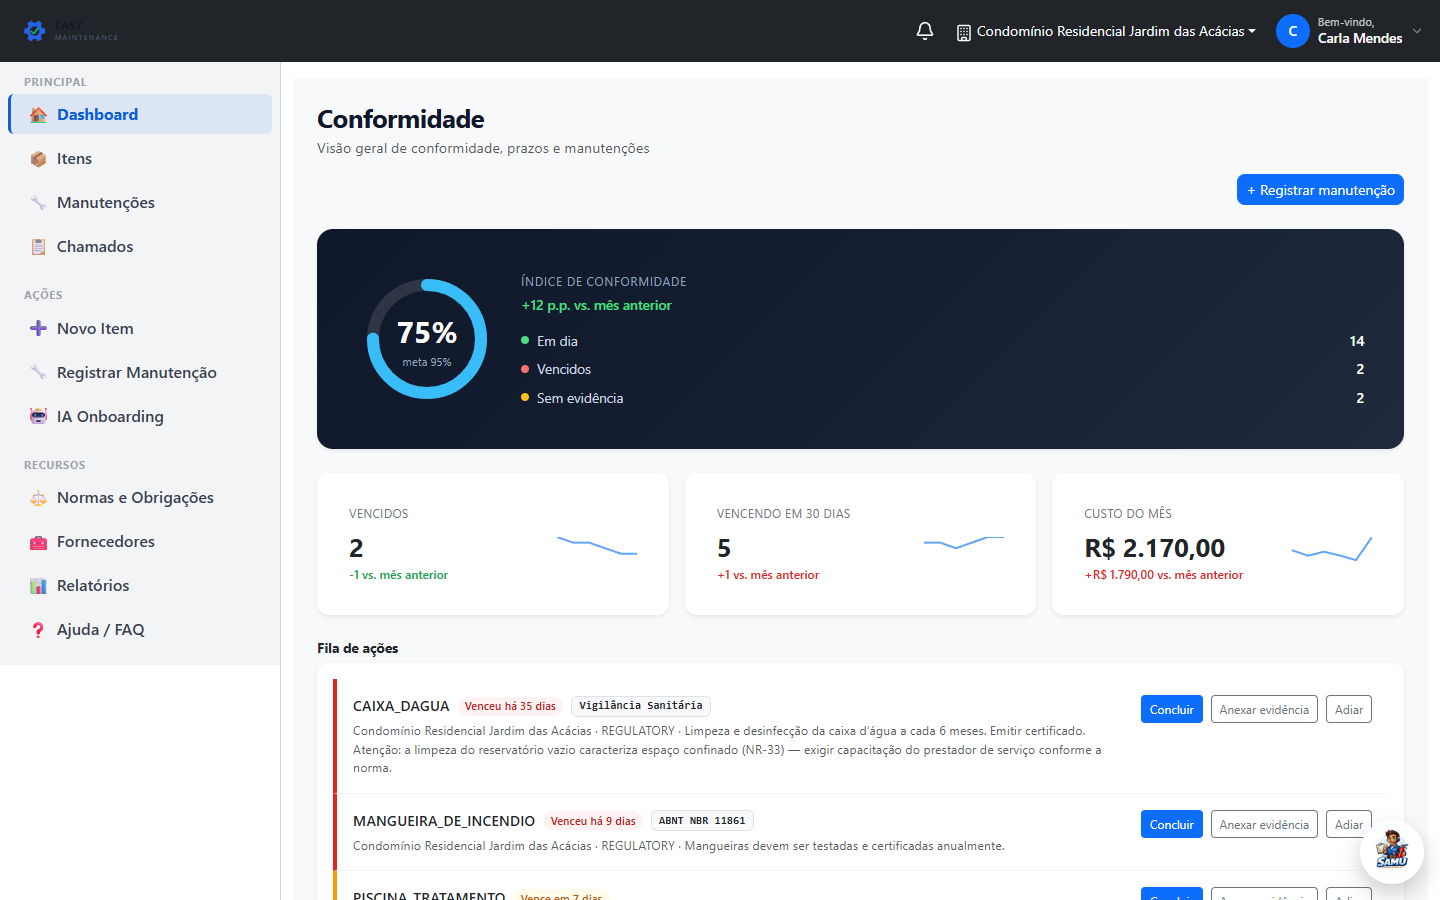
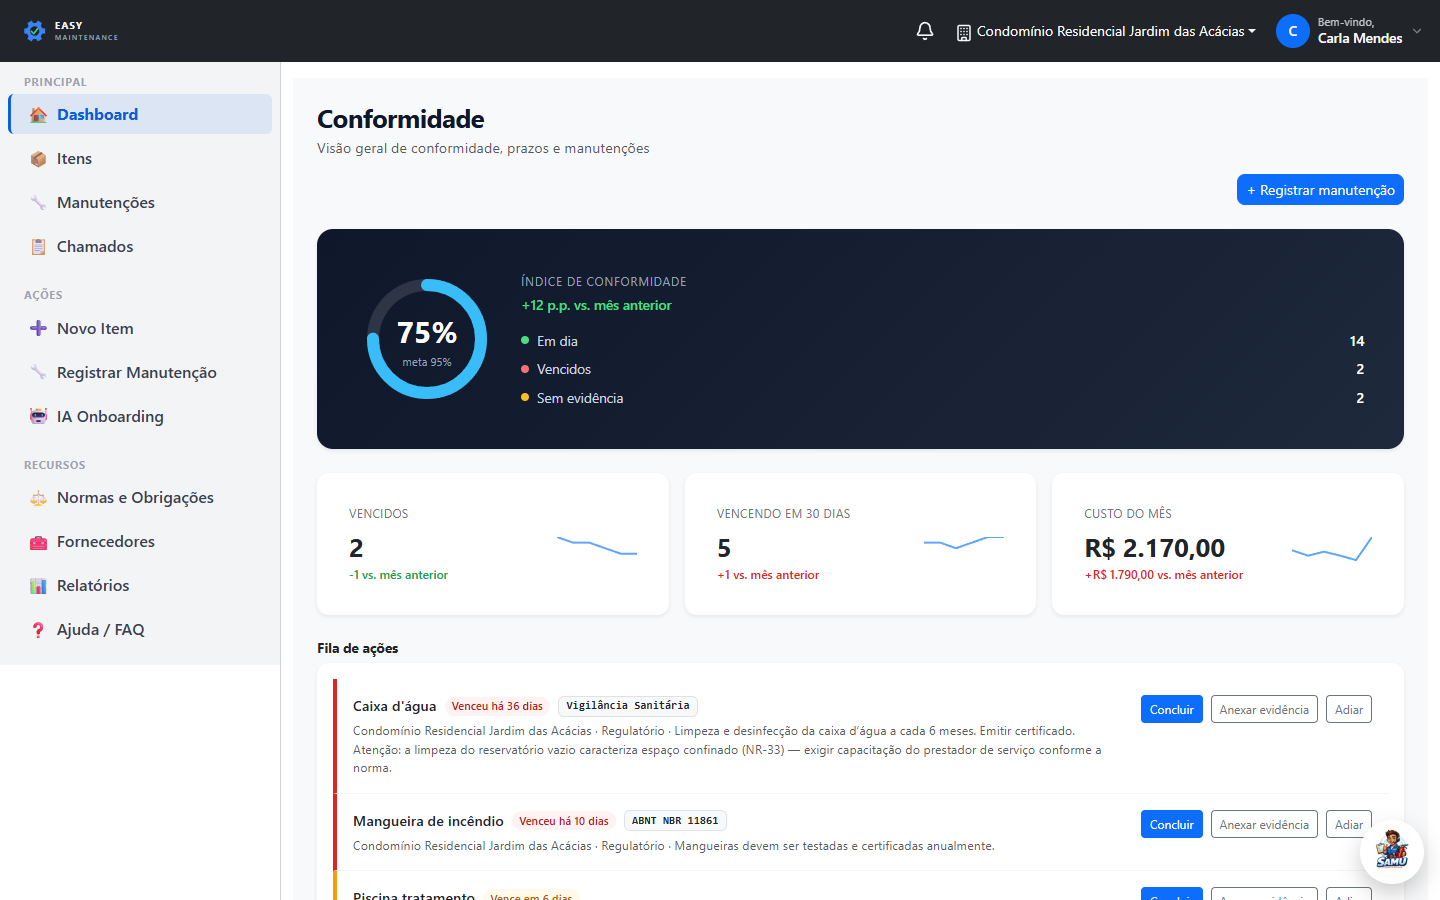
docs(produto): prints recapturados com a TASK-294; TASK-294 em validacao; TASK-296 registrada

diff --git a/roadmap/tasks/TASK-294.md b/roadmap/tasks/TASK-294.md
@@ -33,12 +33,31 @@ o logo oficial é o conjunto SVG (`public/assets/brand/logos/`).
    corrente — renomear para "Últimos 12 meses" ou ajustar o período.
 
 ## Critérios de Aceite
-- [ ] Landing sem a ilustração; hero com print real do produto
-- [ ] Nenhuma tela ou PDF usa o logo antigo
+- [x] Landing sem a ilustração; hero com print real do produto
+- [x] Nenhuma tela ou PDF usa o logo antigo
 - [ ] Mascote com "SAMU" correto
-- [ ] Um logo só (o oficial) em todas as telas e PDFs
-- [ ] Nomes de tipo/categoria legíveis nas telas e PDFs
-- [ ] Um único conceito de "conformidade" (ou dois com nomes diferentes e claros)
+- [x] Um logo só (o oficial) em todas as telas e PDFs
+- [x] Nomes de tipo/categoria legíveis nas telas e PDFs
+- [x] Um único conceito de "conformidade" (ou dois com nomes diferentes e claros)
+
+## Execução (25/09/2026)
+Branch `feature/TASK-294-marca-e-nomes-legiveis` · PR [web#101](https://github.com/douglasjava/easy-maintenance-web/pull/101) → `staging`.
+
+- **Logo** (135dfd0): versões do SVG oficial com cor fixa (`logo-*-on-light/on-dark.svg`), porque o SVG
+  original seguia o tema do SO e sumia em fundo claro. `BrandLogo` ganhou `tone`. Telas públicas,
+  topbar, `Logo.tsx` (o escudo), cartaz A4 e PDF de prestação de contas passam a usar o logo oficial.
+  Removido o PNG antigo.
+- **Nomes legíveis** (44d387e): `formatItemType`/`formatItemCategory` (`src/lib/itemLabels.ts`) em
+  itens, manutenções, IA onboarding, calendário, fila de ações, relatórios e prestação de contas.
+- **Conformidade**: decisão do Douglas, o PDF usa o índice do dashboard (`/dashboard/summary`). Rótulo
+  "Índice de conformidade". Se a chamada falhar, mostra "—".
+- **"Este ano"** = 01/01 até hoje.
+- **Landing** (ebee78c): hero e imagens OG/Twitter (layout, landing, 5 posts) com print real do
+  dashboard da conta demo. `dashboard_preview.*` removidos.
+- Validação: tsc limpo, `npm test` 209/212 (as 3 falhas de `middleware.test.ts` já existiam), build ok,
+  +24 testes novos. Conferência visual no navegador. Prints da pasta `docs/produto/prints/` recapturados.
+- **Fora do escopo**: mascote "SANU", que precisa de designer (critério 3 continua aberto).
+- Achado paralelo registrado: [TASK-296](TASK-296.md) (chave React duplicada na fila de ações).
 
 ## Status
-Backlog
+🟡 Em validação — PR web#101 aberta (critério do mascote pendente de designer)

diff --git a/docs/produto/contexto-marca-materiais.md b/docs/produto/contexto-marca-materiais.md
@@ -107,7 +107,9 @@ representar status (em dia / vencendo / vencido), igual ao sistema.
 - **`dashboard_preview.png/.webp`** (a imagem de "dashboard" que aparece no topo da landing) — **não é
   print do produto**, é uma ilustração: mostra funcionalidades que o sistema não tem ("Ordens de
   Serviço/OS", "PMOC", "AVCB", "NR-12 Máquinas"), valor em dólar ("$23.450") e erros de digitação
-  ("Actius", "Manutanção"). Usar em material de venda = prometer o que o produto não entrega.
+  ("Actius", "Manutanção"). Usar em material de venda = prometer o que o produto não entrega. Está
+  sendo retirada do site (TASK-294), substituída pelo print real do dashboard; cópias antigas podem
+  continuar circulando e seguem proibidas.
 - Qualquer tela "fake" gerada por IA ou mockup inventado de funcionalidade que não existe.
 - O logo antigo (seção 1).
 
@@ -116,9 +118,11 @@ representar status (em dia / vencendo / vencido), igual ao sistema.
 ## 6. Prints do sistema
 
 Existe um banco de **prints reais** de uma conta de demonstração com dados fictícios (Condomínio
-Residencial Jardim das Acácias, BH), capturados em 24/09/2026: pasta `docs/produto/prints/`. O
-`README.md` dessa pasta lista cada arquivo, o uso sugerido e os **cuidados** (QR code do cartaz aponta
-para ambiente local, nomes técnicos crus em algumas telas, logo antigo em algumas telas, 75% × 88%).
+Residencial Jardim das Acácias, BH), capturados em 24/09/2026 e **recapturados em 25/09/2026** já com
+o logo oficial em todas as telas e PDFs, nomes legíveis ("Caixa d'água", "Regulatório") e o mesmo
+índice de conformidade (75%) no dashboard e no PDF (TASK-294): pasta `docs/produto/prints/`. O
+`README.md` dessa pasta lista cada arquivo, o uso sugerido e os **cuidados** (o QR code do cartaz
+aponta para o ambiente local).
 
 Já disponíveis: dashboard/índice de conformidade (completo e primeira dobra), histórico e detalhe de
 manutenção com anexo, PDF de prestação de contas, chamados (cartaz A4, quadro do gestor, fluxo do

diff --git a/docs/produto/prints/README.md b/docs/produto/prints/README.md
@@ -1,6 +1,8 @@
 # Prints do sistema — conta de demonstração
 
-*Capturados em 24/09/2026 (TASK-295) no ambiente local, com o código de produção (`main`).*
+*Capturados em 24/09/2026 (TASK-295) e recapturados em 25/09/2026 no ambiente local com o código da
+TASK-294 (logo oficial, nomes legíveis, índice único): ainda em revisão, entra em produção quando essa
+PR for mergeada.*
 
 ## Conta demo (dados 100% fictícios)
 
@@ -47,12 +49,10 @@
 
 - **O QR code do cartaz (`05a-chamados-cartaz-a4.png`) aponta para o ambiente local** e o rodapé mostra
   `localhost`. Use só como ilustração pequena — **nunca como QR escaneável** em material impresso.
-- Aparecem **nomes técnicos crus** nas telas ("CAIXA_DAGUA", "REGULATORY", "OPERATIONAL") — é o sistema
-  hoje (TASK-294). Em close-up, prefira recortes onde isso não domina.
-- O **logo antigo** aparece no cartaz A4 e nas telas do morador/fornecedor, e um **terceiro logo**
-  (escudo) na `/para-fornecedores` (TASK-294). Não usar esses prints como referência de marca.
-- O dashboard mostra **75%** (índice de conformidade) e o PDF mostra **88%** ("taxa de conformidade",
-  fórmula mais simples). Não coloque os dois números lado a lado num mesmo slide.
+- Dashboard e PDF mostram o **mesmo índice de conformidade (75%)**. O PDF cobre de 01/01/2026 a 25/09/2026
+  (preset "Este ano").
+- Logo e nomes ("Caixa d'água", "Regulatório") já estão como vão ficar em produção depois da TASK-294.
+- O mascote do SAMU tem "SANU" escrito no crachá (erro da arte, ainda sem correção). Não use o mascote em close.
 - O canto inferior direito mostra o botão do assistente SAMU (normal do sistema).
 
 ## Pendentes — capturar em staging ou no celular

diff --git a/roadmap/tasks/TASK-296.md b/roadmap/tasks/TASK-296.md
@@ -1,0 +1,30 @@
+# TASK-296 — Fila de ações do dashboard: chave React duplicada quando o mesmo item aparece duas vezes
+
+## Tipo
+BUGFIX (FRONTEND)
+
+## Prioridade
+🟢 Baixo — sem sintoma visível confirmado, mas é comportamento indefinido do React
+
+## Contexto
+Achado ao recapturar os prints da conta demo (TASK-294/295, 25/09/2026): o console do navegador acusa
+`Encountered two children with the same key` no dashboard.
+
+## Problema
+`src/components/dashboard/compliance/ActionQueue.tsx:76` renderiza cada ação com `key={action.id}`,
+que é o **id do item**. O mesmo item pode entrar na fila por dois motivos (ex.: item 164 aparece como
+"vencendo" e como "sem evidência"), gerando duas linhas com a mesma chave. Com chave duplicada, o React
+pode reaproveitar a linha errada ao atualizar a lista, por exemplo depois de "Adiar" ou "Concluir":
+uma linha pode sumir ou ficar duplicada até o próximo reload.
+
+## Correção sugerida
+- Chave composta pelo motivo (`${action.id}-${action.type ?? action.reason}`), conferindo o nome do
+  campo no contrato de `/dashboard/actions`;
+- ou avaliar se o backend deveria consolidar as ações do mesmo item numa linha só (decisão de produto).
+
+## Critérios de Aceite
+- [ ] Sem warning de chave duplicada no console do dashboard
+- [ ] Item com dois motivos continua aparecendo corretamente, e Adiar/Concluir atualiza as linhas certas
+
+## Status
+Backlog

diff --git a/roadmap/kanban.md b/roadmap/kanban.md
@@ -1,5 +1,12 @@
 # Kanban — Easy Maintenance
 
+> Atualizado em: 25/09/2026 — **🟡 [TASK-294](tasks/TASK-294.md) implementada, PR aberta**
+> ([web#101](https://github.com/douglasjava/easy-maintenance-web/pull/101) → `staging`): logo oficial em
+> todas as telas e PDFs, nomes legíveis ("Caixa d'água", "Regulatório"), prestação de contas com o índice
+> do dashboard, "Este ano" = ano corrente e hero da landing com print real. Pendente: mascote "SANU"
+> (designer). Prints da [TASK-295](tasks/TASK-295.md) recapturados. Novo achado:
+> [TASK-296](tasks/TASK-296.md) (chave duplicada na fila de ações, baixo).
+
 > Atualizado em: 24/09/2026 — **🚀 Promoção `staging` → `main` aberta** ([api#121](https://github.com/douglasjava/easy-maintenance-api/pull/121) ·
 > [web#100](https://github.com/douglasjava/easy-maintenance-web/pull/100)) com TASK-280/285/288/289/290 — e
 > TASK-245/291 entram automaticamente quando mergeadas em `staging`:

diff --git a/roadmap/tasks/TASK-295.md b/roadmap/tasks/TASK-295.md
@@ -36,5 +36,8 @@ no banco e cuidados de uso no `README.md` da pasta). Decisão do Douglas: local 
       WhatsApp (celular) e cartaz A4 com QR de produção — roteiro no README da pasta.
 - [ ] Prints enviados ao projeto Cowork de Materiais (Douglas)
 
+Recaptura em 25/09/2026 com o código da TASK-294 (logo oficial, nomes legíveis, índice único 75% no
+dashboard e no PDF, "Este ano" = 01/01–hoje). Os cuidados do README foram atualizados.
+
 ## Status
 🟡 Em andamento — parte local concluída; captura em staging pendente.
